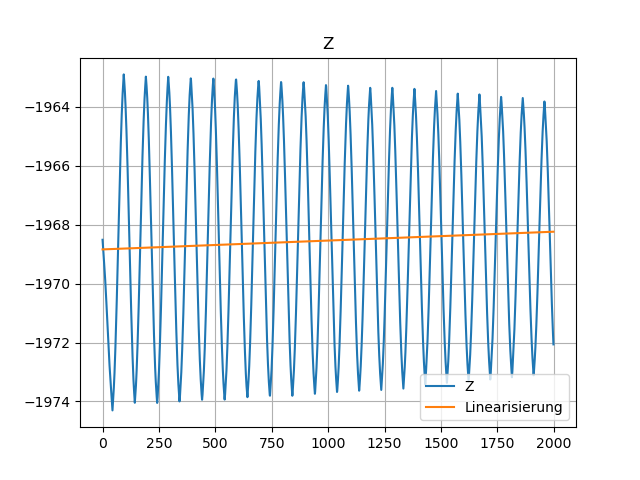
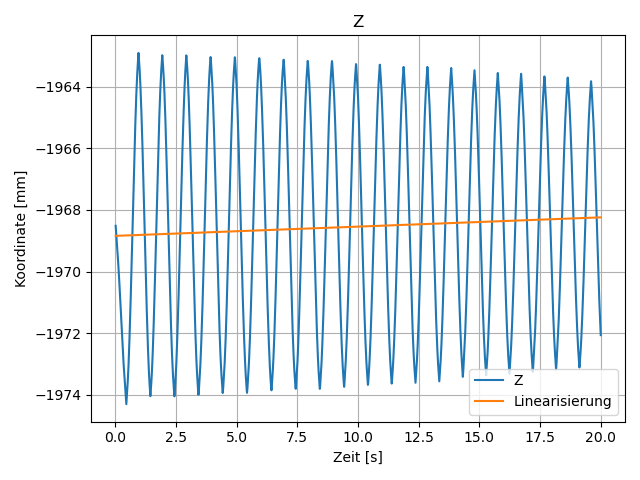
Updated graphs and code usability

diff --git a/übung4/schwingungsanalyse_main.py b/übung4/schwingungsanalyse_main.py
@@ -34,32 +34,36 @@ from scipy import signal
 # -----------------------------------------------------------------------------
 # Settings
 
-verbose = False  # Shows more debugging information
-fix_steigung = False # Disregards permanent sensor changes
+verbose = True  # Shows more debugging information
+fix_steigung = False  # Disregards permanent sensor changes
+show_graphs = True  # If disabled, the Plots will not be shown.
 
 
 # Functions
 # -----------------------------------------------------------------------------
 
 def run_analysis(input_file):
+        
+    if(verbose):
+        print(14*"-", "BEGIN OF CALCULATION", 14*"-")
     
-
     # Einlesen der Daten
-    print(f"[{1}/{1}] Einlesen der Daten...", end="\r")
+    if(verbose):
+        print(f'[{1}/{3}] Einlesen von "{input_file}"', end="\r")
     with open(os.path.join("data", input_file), "r") as f:
         data = f.readlines()
-    print("")
     
     # Datenbereinigung
-    print(f"[{1}/{1}] Datenbereinigung...", end="\r")
+    if(verbose):
+        print(f'[{2}/{3}] Einlesen von "{input_file}"', end="\r")
     for i, e in enumerate(data):
         data[i] = e.split(";")
         for j, e in enumerate(data[i]):
             data[i][j] = float(e.strip())
-    print("")
 
     # Umwandeln in Datenreihen
-    print(f"[{1}/{1}] Datenkonvertierung...", end="\r")
+    if(verbose):
+        print(f'[{3}/{3}] Einlesen von "{input_file}"', end="\r")
     datenreihen = [[], [], [], []]
     for i in data:
         datenreihen[0].append(i[0])
@@ -67,29 +71,34 @@ def run_analysis(input_file):
         datenreihen[2].append(i[2])
         datenreihen[3].append(i[3])
     datenreihen_ohne_zeit = datenreihen[1:4]
-    print("")
-    plot_xyzt(datenreihen_ohne_zeit, f'Messreihe "{input_file}"')
+    if(verbose):
+        print("")
+    if(show_graphs):
+        plot_xyzt(datenreihen_ohne_zeit, datenreihen[0], f'Messreihe "{input_file}"')
     
     # Berechnung der linearen Regression von Sensor 1
     x = np.array(datenreihen[0])
     y = np.array(datenreihen[1])
     steigung_1 = (len(x) * np.sum(x*y) - np.sum(x) * np.sum(y)) / (len(x)*np.sum(x*x) - np.sum(x) ** 2)
     offset_1 = (np.sum(y) - steigung_1 *np.sum(x)) / len(x)
-    print(f'[Sensor 1] Trend: ({steigung_1:.10f})x + ({offset_1:+.6f})')
+    if(verbose):
+        print(f'[X] Trend: ({steigung_1:.10f})x + ({offset_1:+.6f})')
     
     # Berechnung der linearen Regression von Sensor 2
     x = np.array(datenreihen[0])
     y = np.array(datenreihen[2])
     steigung_2 = (len(x) * np.sum(x*y) - np.sum(x) * np.sum(y)) / (len(x)*np.sum(x*x) - np.sum(x) ** 2)
     offset_2 = (np.sum(y) - steigung_2 *np.sum(x)) / len(x)
-    print(f'[Sensor 2] Trend: ({steigung_2:.10f})x + ({offset_2:+.6f})')
+    if(verbose):
+        print(f'[Y] Trend: ({steigung_2:.10f})x + ({offset_2:+.6f})')
     
     # Berechnung der linearen Regression von Sensor 3
     x = np.array(datenreihen[0])
     y = np.array(datenreihen[3])
     steigung_3 = (len(x) * np.sum(x*y) - np.sum(x) * np.sum(y)) / (len(x)*np.sum(x*x) - np.sum(x) ** 2)
     offset_3 = (np.sum(y) - steigung_3 *np.sum(x)) / len(x)
-    print(f'[Sensor 2] Trend: ({steigung_3:.10f})x + ({offset_3:+.6f})')
+    if(verbose):
+        print(f'[Z] Trend: ({steigung_3:.10f})x + ({offset_3:+.6f})')
 
     # Erstellung Lineare Regression zum Plotten (Plot-Punkte)
     linearisierung = [[], [], []]
@@ -98,9 +107,10 @@ def run_analysis(input_file):
         linearisierung[1].append(i*steigung_2+offset_2)
         linearisierung[2].append(i*steigung_3+offset_3)
     # Plot der linearen Regression
-    plot_werte([datenreihen[1], linearisierung[0]], ["X", "Linearisierung"])
-    plot_werte([datenreihen[2], linearisierung[1]], ["Y", "Linearisierung"])
-    plot_werte([datenreihen[3], linearisierung[2]], ["Z", "Linearisierung"])
+    if(show_graphs):
+        plot_werte_t([datenreihen[1], linearisierung[0]], datenreihen[0], ["X", "Linearisierung"])
+        plot_werte_t([datenreihen[2], linearisierung[1]], datenreihen[0], ["Y", "Linearisierung"])
+        plot_werte_t([datenreihen[3], linearisierung[2]], datenreihen[0], ["Z", "Linearisierung"])
 
     # Wenn Steigung nicht bereinigt werden soll
     if(fix_steigung):
@@ -110,43 +120,56 @@ def run_analysis(input_file):
 
     # Bereinigung des Trends aller Sensorreihen
     datenreihen_ohne_trend = [[], [], []]
-    print(f"[{1}/{len(datenreihen_ohne_trend)}] Bereinigung des Trends...", end="\r")
+    if(verbose):
+        print(f"[{1}/{len(datenreihen_ohne_trend)}] Trendbereinigung", end="\r")
     for i, e in enumerate(datenreihen[1]):
         datenreihen_ohne_trend[0].append(e - (steigung_1*(datenreihen[0][i])+offset_1))
-    print(f"[{2}/{len(datenreihen_ohne_trend)}] Bereinigung des Trends...", end="\r")
+    if(verbose):
+        print(f"[{2}/{len(datenreihen_ohne_trend)}] Trendbereinigung", end="\r")
     for i, e in enumerate(datenreihen[2]):
         datenreihen_ohne_trend[1].append(e - (steigung_2*(datenreihen[0][i])+offset_2))
-    print(f"[{3}/{len(datenreihen_ohne_trend)}] Bereinigung des Trends...", end="\r")
+    if(verbose):
+        print(f"[{3}/{len(datenreihen_ohne_trend)}] Trendbereinigung", end="\r")
     for i, e in enumerate(datenreihen[3]):
         datenreihen_ohne_trend[2].append(e - (steigung_3*(datenreihen[0][i])+offset_3))
-    print("")
+    if(verbose):
+        print("")
     # Plot der vom Trend bereinigten Sensorreihen
-    plot_xyzt(datenreihen_ohne_trend, f'Messreihe "{input_file}" (ohne Trend)')
+    if(show_graphs):
+        plot_xyzt(datenreihen_ohne_trend, datenreihen[0], f'Messreihe "{input_file}" (ohne Trend)')
 
     # Low-Pass-Filterung der Sensorreihen
     low_pass_strength = 3
     datenreihen_low_pass = []
     for i, e in enumerate(datenreihen_ohne_trend):
-        print(f"[{i+1}/{len(datenreihen_ohne_trend)}] Low-Pass-Filterung (Strength {low_pass_strength})...", end="\r")
+        if(verbose):
+            print(f"[{i+1}/{len(datenreihen_ohne_trend)}] Low-Pass-Filterung (Strength {low_pass_strength})", end="\r")
         datenreihen_low_pass.append(low_pass_filter(e, low_pass_strength))
-    print("")
+    if(verbose):
+        print("")
     # Plot der low-pass Sensorreihen
-    plot_xyzt(datenreihen_low_pass, f'Messreihe "{input_file}" (mit Low-Pass-Filter)')
+    if(show_graphs):
+        plot_xyzt(datenreihen_low_pass, datenreihen[0], f'Messreihe "{input_file}" (mit Low-Pass-Filter)')
 
     # Hoch-Pass-Filterung der Sensorreihen
     datenreihen_hoch_pass = [[], [], []]
-    print(f"[{1}/{len(datenreihen_hoch_pass)}] Hoch-Pass-Filterung...", end="\r")
+    if(verbose):
+        print(f"[{1}/{len(datenreihen_hoch_pass)}] Hoch-Pass-Filterung", end="\r")
     for i, e in enumerate(datenreihen_low_pass[0]):
         datenreihen_hoch_pass[0].append(datenreihen_ohne_trend[0][i] - e)
-    print(f"[{2}/{len(datenreihen_hoch_pass)}] Hoch-Pass-Filterung...", end="\r")
+    if(verbose):
+        print(f"[{2}/{len(datenreihen_hoch_pass)}] Hoch-Pass-Filterung", end="\r")
     for i, e in enumerate(datenreihen_low_pass[1]):
         datenreihen_hoch_pass[1].append(datenreihen_ohne_trend[1][i] - e)
-    print(f"[{3}/{len(datenreihen_hoch_pass)}] Hoch-Pass-Filterung...", end="\r")
+    if(verbose):
+        print(f"[{3}/{len(datenreihen_hoch_pass)}] Hoch-Pass-Filterung", end="\r")
     for i, e in enumerate(datenreihen_low_pass[2]):
         datenreihen_hoch_pass[2].append(datenreihen_ohne_trend[2][i] - e)
-    print("")
+    if(verbose):
+        print("")
     # Plot der hoch-pass Sensorreihen
-    plot_xyzt(datenreihen_hoch_pass, f'Messreihe "{input_file}" (mit Hoch-Pass-Filter)')
+    if(show_graphs):
+        plot_xyzt(datenreihen_hoch_pass, datenreihen[0], f'Messreihe "{input_file}" (mit Hoch-Pass-Filter)')
 
     # Fourier-Transformation
 
@@ -154,31 +177,39 @@ def run_analysis(input_file):
     # https://docs.scipy.org/doc/scipy/reference/tutorial/fft.html
     sample_frequenz = datenreihen[0][2] - datenreihen[0][1]
     N = len(datenreihen[0])*2
-    print(f"[{1}/{len(datenreihen_ohne_trend)}] Fast-Fourier-Transformation...", end="\r")
+    if(verbose):
+        print(f"[{1}/{len(datenreihen_ohne_trend)}] Fast-Fourier-Transformation", end="\r")
     yf_1 = fft(datenreihen_low_pass[0])
     xf_1 = fftfreq(len(datenreihen_low_pass[0]), 1/sample_frequenz)
-    print(f"[{2}/{len(datenreihen_ohne_trend)}] Fast-Fourier-Transformation...", end="\r")
+    if(verbose):
+        print(f"[{2}/{len(datenreihen_ohne_trend)}] Fast-Fourier-Transformation", end="\r")
     yf_2 = fft(datenreihen_low_pass[1])
     xf_2 = fftfreq(len(datenreihen_low_pass[1]), 1/sample_frequenz)
-    print(f"[{3}/{len(datenreihen_ohne_trend)}] Fast-Fourier-Transformation...", end="\r")
+    if(verbose):
+        print(f"[{3}/{len(datenreihen_ohne_trend)}] Fast-Fourier-Transformation", end="\r")
     yf_3 = fft(datenreihen_low_pass[2])
     xf_3 = fftfreq(len(datenreihen_low_pass[2]), 1/sample_frequenz)
-    print("")
+    if(verbose):
+        print("")
     # Plot der Fourier-Transformation
-    plt.plot(xf_1, 2.0/N * np.abs(yf_1[0:N//2]))
-    # plt.xlim(0, 0.0001)
-    plt.grid()
-    plt.show()
+    if(show_graphs):
+        plt.plot(xf_1, 2.0/N * np.abs(yf_1[0:N//2]))
+        # plt.xlim(0, 0.0001)
+        plt.grid()
+        plt.show()
 
-    plt.plot(xf_2, 2.0/N * np.abs(yf_2[0:N//2]))
-    # plt.xlim(0, 0.0001)
-    plt.grid()
-    plt.show()
+        plt.plot(xf_2, 2.0/N * np.abs(yf_2[0:N//2]))
+        # plt.xlim(0, 0.0001)
+        plt.grid()
+        plt.show()
 
-    plt.plot(xf_3, 2.0/N * np.abs(yf_3[0:N//2]))
-    # plt.xlim(0, 0.0001)
-    plt.grid()
-    plt.show()
+        plt.plot(xf_3, 2.0/N * np.abs(yf_3[0:N//2]))
+        # plt.xlim(0, 0.0001)
+        plt.grid()
+        plt.show()
+        
+    if(verbose):
+        print(15*"-", "END OF CALCULATION", 15*"-")
 
 
 def plot_werte(datenreihen, name=["Messwerte"]):
@@ -196,22 +227,43 @@ def plot_werte(datenreihen, name=["Messwerte"]):
     plt.show()
 
 
-def plot_xyzt(datenreihen, name="Messwerte"):
+def plot_werte_t(datenreihen, zeit, name=["Messwerte"]):
+    """
+    Diese Funktion plottet Werte an eine Zeitachse.
+
+    Args:
+        datenreihen ([type]): Datenreihen zum Plotten
+        zeit ([type]): Eine Liste mit der Angabe der Zeitintervalle.
+        name (list, optional): Angaben zur Beschriftung. Defaults to ["Messwerte"].
+    """
+    for i, datenreihe in enumerate(datenreihen):
+        plt.plot(zeit, datenreihe)
+    plt.legend(name)
+    plt.grid()
+    plt.xlabel("Zeit [s]")
+    plt.ylabel("Koordinate [mm]")
+    plt.title(name[0])
+    plt.tight_layout()
+    plt.show()
+
+
+def plot_xyzt(datenreihen, zeit, name="Messwerte"):
     """
     Diese Funktion nimmt genau drei Datenreihen und plottet diese in ein Diagramm.
 
     Args:
         datenreihen ([list]): Drei Datenreihen zum Plotten.
+        zeit ([list]): Eine Liste mit der Angabe der Zeitintervalle.
         name (list, optional): Dies ist der Titel. Defaults to "Messwerte".
     """
     for i, datenreihe in enumerate(datenreihen):
-        zeit = range(len(datenreihe))
         plt.plot(zeit, datenreihe)
     plt.legend(["x", "y", "z"])
     plt.grid()
-    plt.xlabel("")
-    plt.ylabel("")
+    plt.xlabel("Zeit [s]")
+    plt.ylabel("Koordinate [mm]")
     plt.title(name)
+    plt.tight_layout()
     plt.show()
 
 

diff --git a/übung4/schwingungsanalyse_prepare_data.py b/übung4/schwingungsanalyse_prepare_data.py
@@ -48,6 +48,8 @@ def convert_data(input_filename, output_filename, Hz):
     file.close()
     data.pop(0)
     for i, e in enumerate(data):
+        if(verbose):
+            print(f"[{i+1}/{len(data)}] Import", end="\r")
         if(e[0] != "/"):
             data[i] = e.strip().split(",")
             temp = []
@@ -60,14 +62,18 @@ def convert_data(input_filename, output_filename, Hz):
 
     # Export der konvertierten Messwerte
     file = open(os.path.join("data", output_filename),f"w")
-    for i in data:
-        for j, e in enumerate(i):
+    for i, e in enumerate(data):
+        if(verbose):
+            print(f"[{i+1}/{len(data)}] Export", end="\r")
+        for j, f in enumerate(e):
             if(j == 0):
-                file.writelines(f"{e}")
+                file.writelines(f"{f}")
             else:
-                file.writelines(f"; {e}")
+                file.writelines(f"; {f}")
         file.writelines(f"\n")
     file.close()
+    if(verbose):
+        print(f"[{i+1}/{len(data)}] Done  ")
 
 
 # Classes
